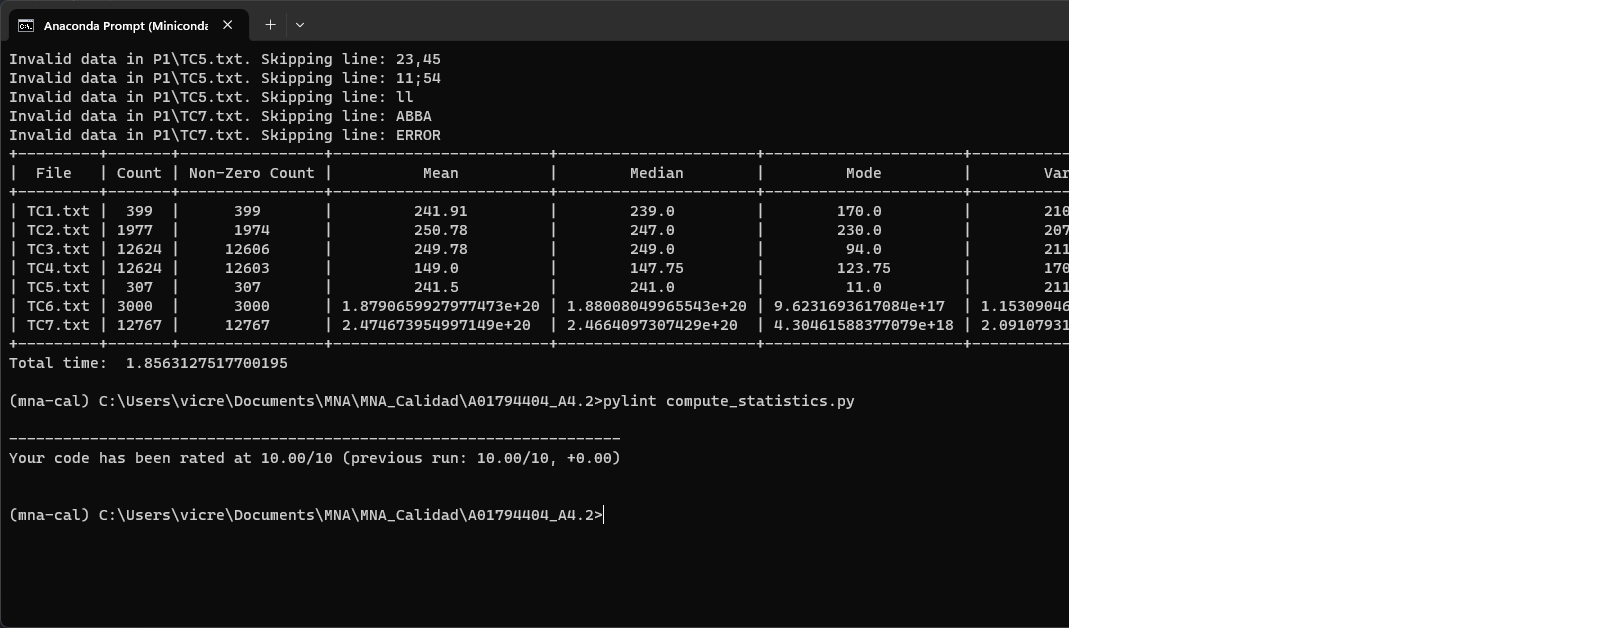
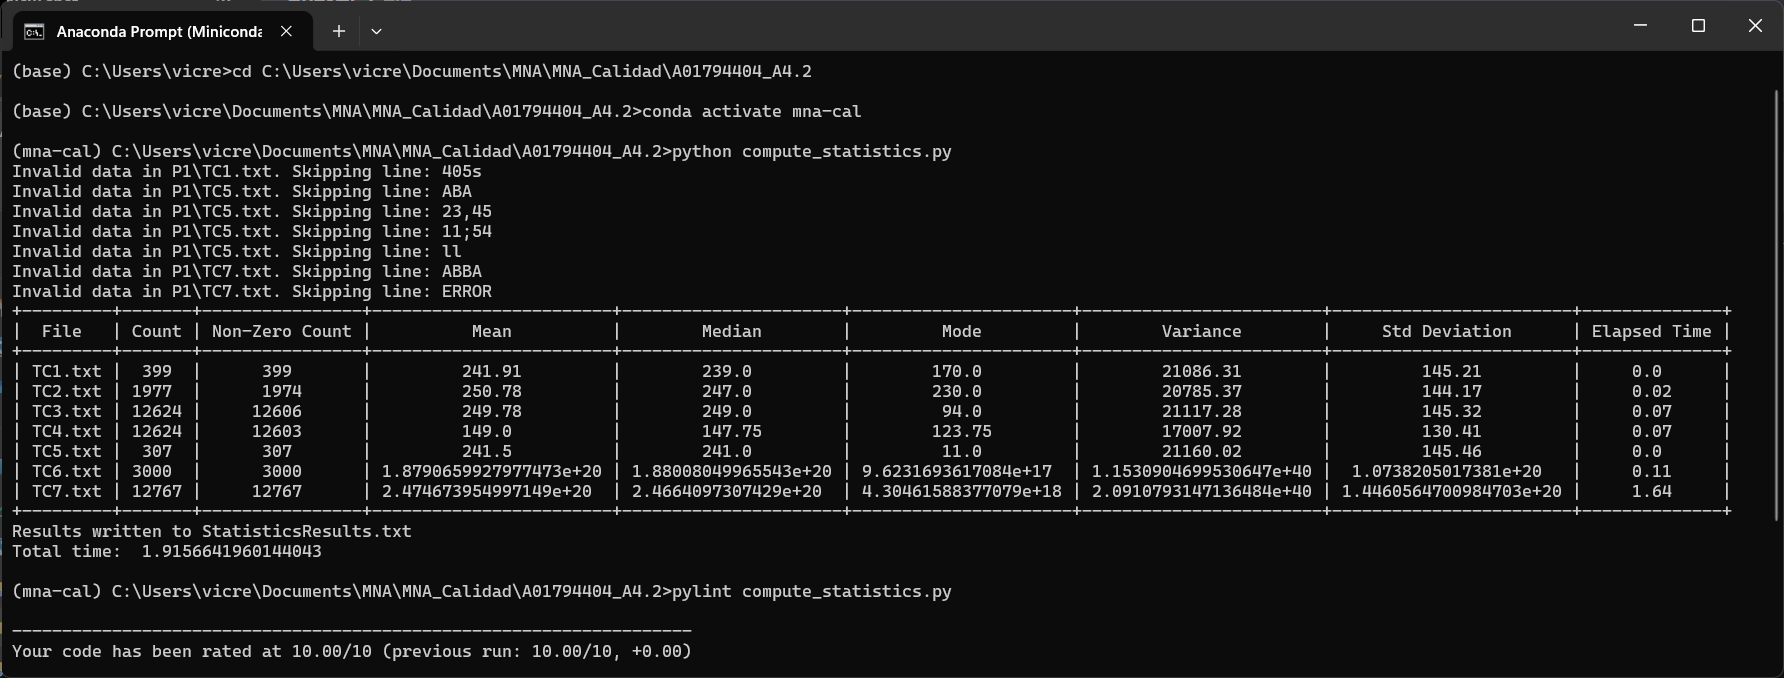
program 1 completed

diff --git a/A01794404_A4.2/compute_statistics.py b/A01794404_A4.2/compute_statistics.py
@@ -15,6 +15,7 @@ from tabulate import tabulate
 
 FOLDER_PATH = "P1"
 FILE_EXTENSION = ".txt"
+OUTPUT_FILE_NAME = "StatisticsResults.txt"
 
 
 def process_file(file_path: str) -> list:
@@ -86,19 +87,43 @@ def process_files_in_folder(folder_path: str) -> None:
         if results:
             results_table.append([file_name] + results)
 
-    # Displaying results in a single table
-    headers = ["File"] + ["Count", "Non-Zero Count", "Mean", "Median",
-                          "Mode", "Variance", "Std Deviation", "Elapsed Time"]
+    return results_table
+
+def display_results(results_table: list) -> None:
+    """
+    Display the computed statistics in a table.
+
+    :param results_table: List of lists containing statistics
+    :return: None
+    """
+    headers = ["File", "Count", "Non-Zero Count", "Mean", "Median",
+               "Mode", "Variance", "Std Deviation", "Elapsed Time"]
     print(tabulate(results_table, headers=headers, tablefmt="pretty"))
 
+def write_results_to_file(results_table: list) -> None:
+    """
+    Write the computed statistics to an output file.
+
+    :param results_table: List of lists containing statistics
+    :return: None
+    """
+    with open(OUTPUT_FILE_NAME, 'w', encoding='utf-8') as output_file:
+        headers = ["File"] + ["Count", "Non-Zero Count", "Mean", "Median",
+                              "Mode", "Variance", "Std Deviation", "Elapsed Time"]
+        output_file.write(tabulate(results_table, headers=headers, tablefmt="pretty"))
 
 if __name__ == "__main__":
     if not os.path.isdir(FOLDER_PATH):
         print("Invalid folder path. Exiting.")
     else:
         total_start_time = time.time()
-        process_files_in_folder(FOLDER_PATH)
+        results_table_doc = process_files_in_folder(FOLDER_PATH)
         total_end_time = time.time()
-        total_time = total_end_time - total_start_time
-        print('Total time: ', total_time)
+
+        if results_table_doc:
+            display_results(results_table_doc)
+            write_results_to_file(results_table_doc)
+            print(f"Results written to {OUTPUT_FILE_NAME}")
+            total_time = total_end_time - total_start_time
+            print('Total time: ', total_time)
         
